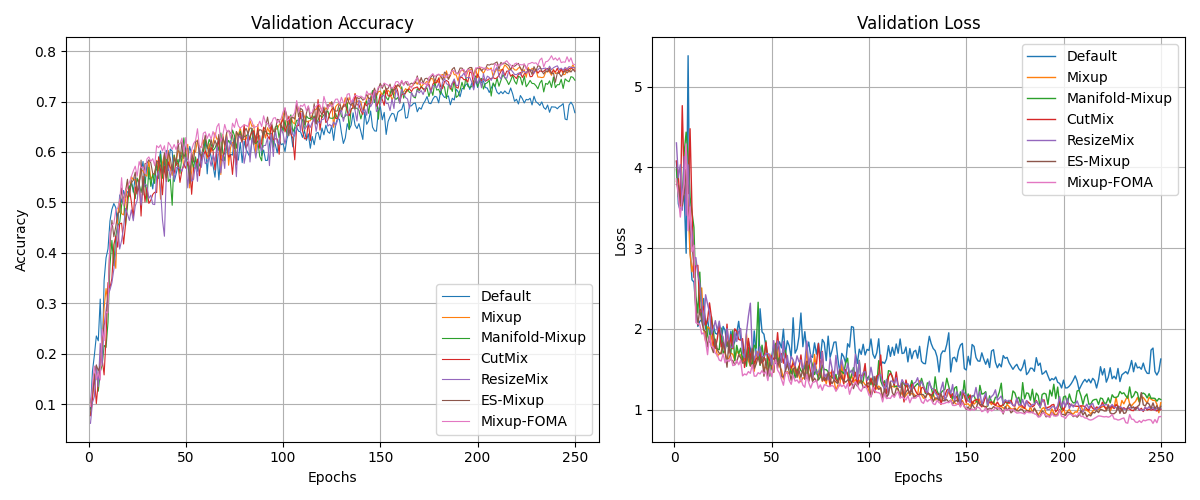
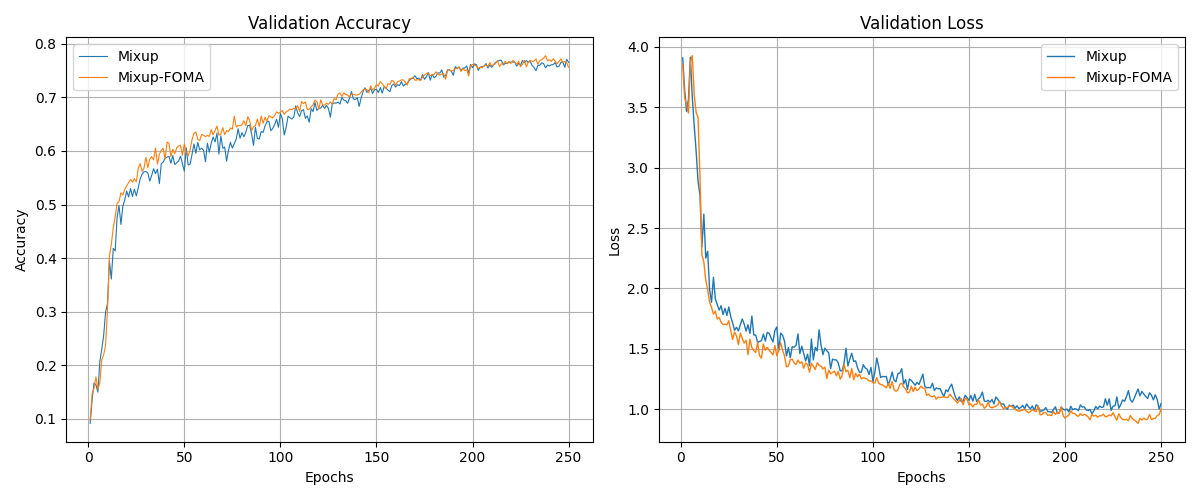
optimizer

diff --git a/result.py b/result.py
@@ -18,16 +18,16 @@ def main():
     model_type = args.model_type
     
     augmentations = [
-        "Default",
+        # "Default",
         "Mixup",
-        "Manifold-Mixup",
-        "CutMix",
-        "ResizeMix",
+        # "Manifold-Mixup",
+        # "CutMix",
+        # "ResizeMix",
         # "CutMix",
         # "RegMixup",
         # "Local-FOMA",
         # "Mixup-FOMA2",
-        "ES-Mixup",
+        # "ES-Mixup",
         "Mixup-FOMA",
         
         # "Mixup-FOMA-scaleup"
